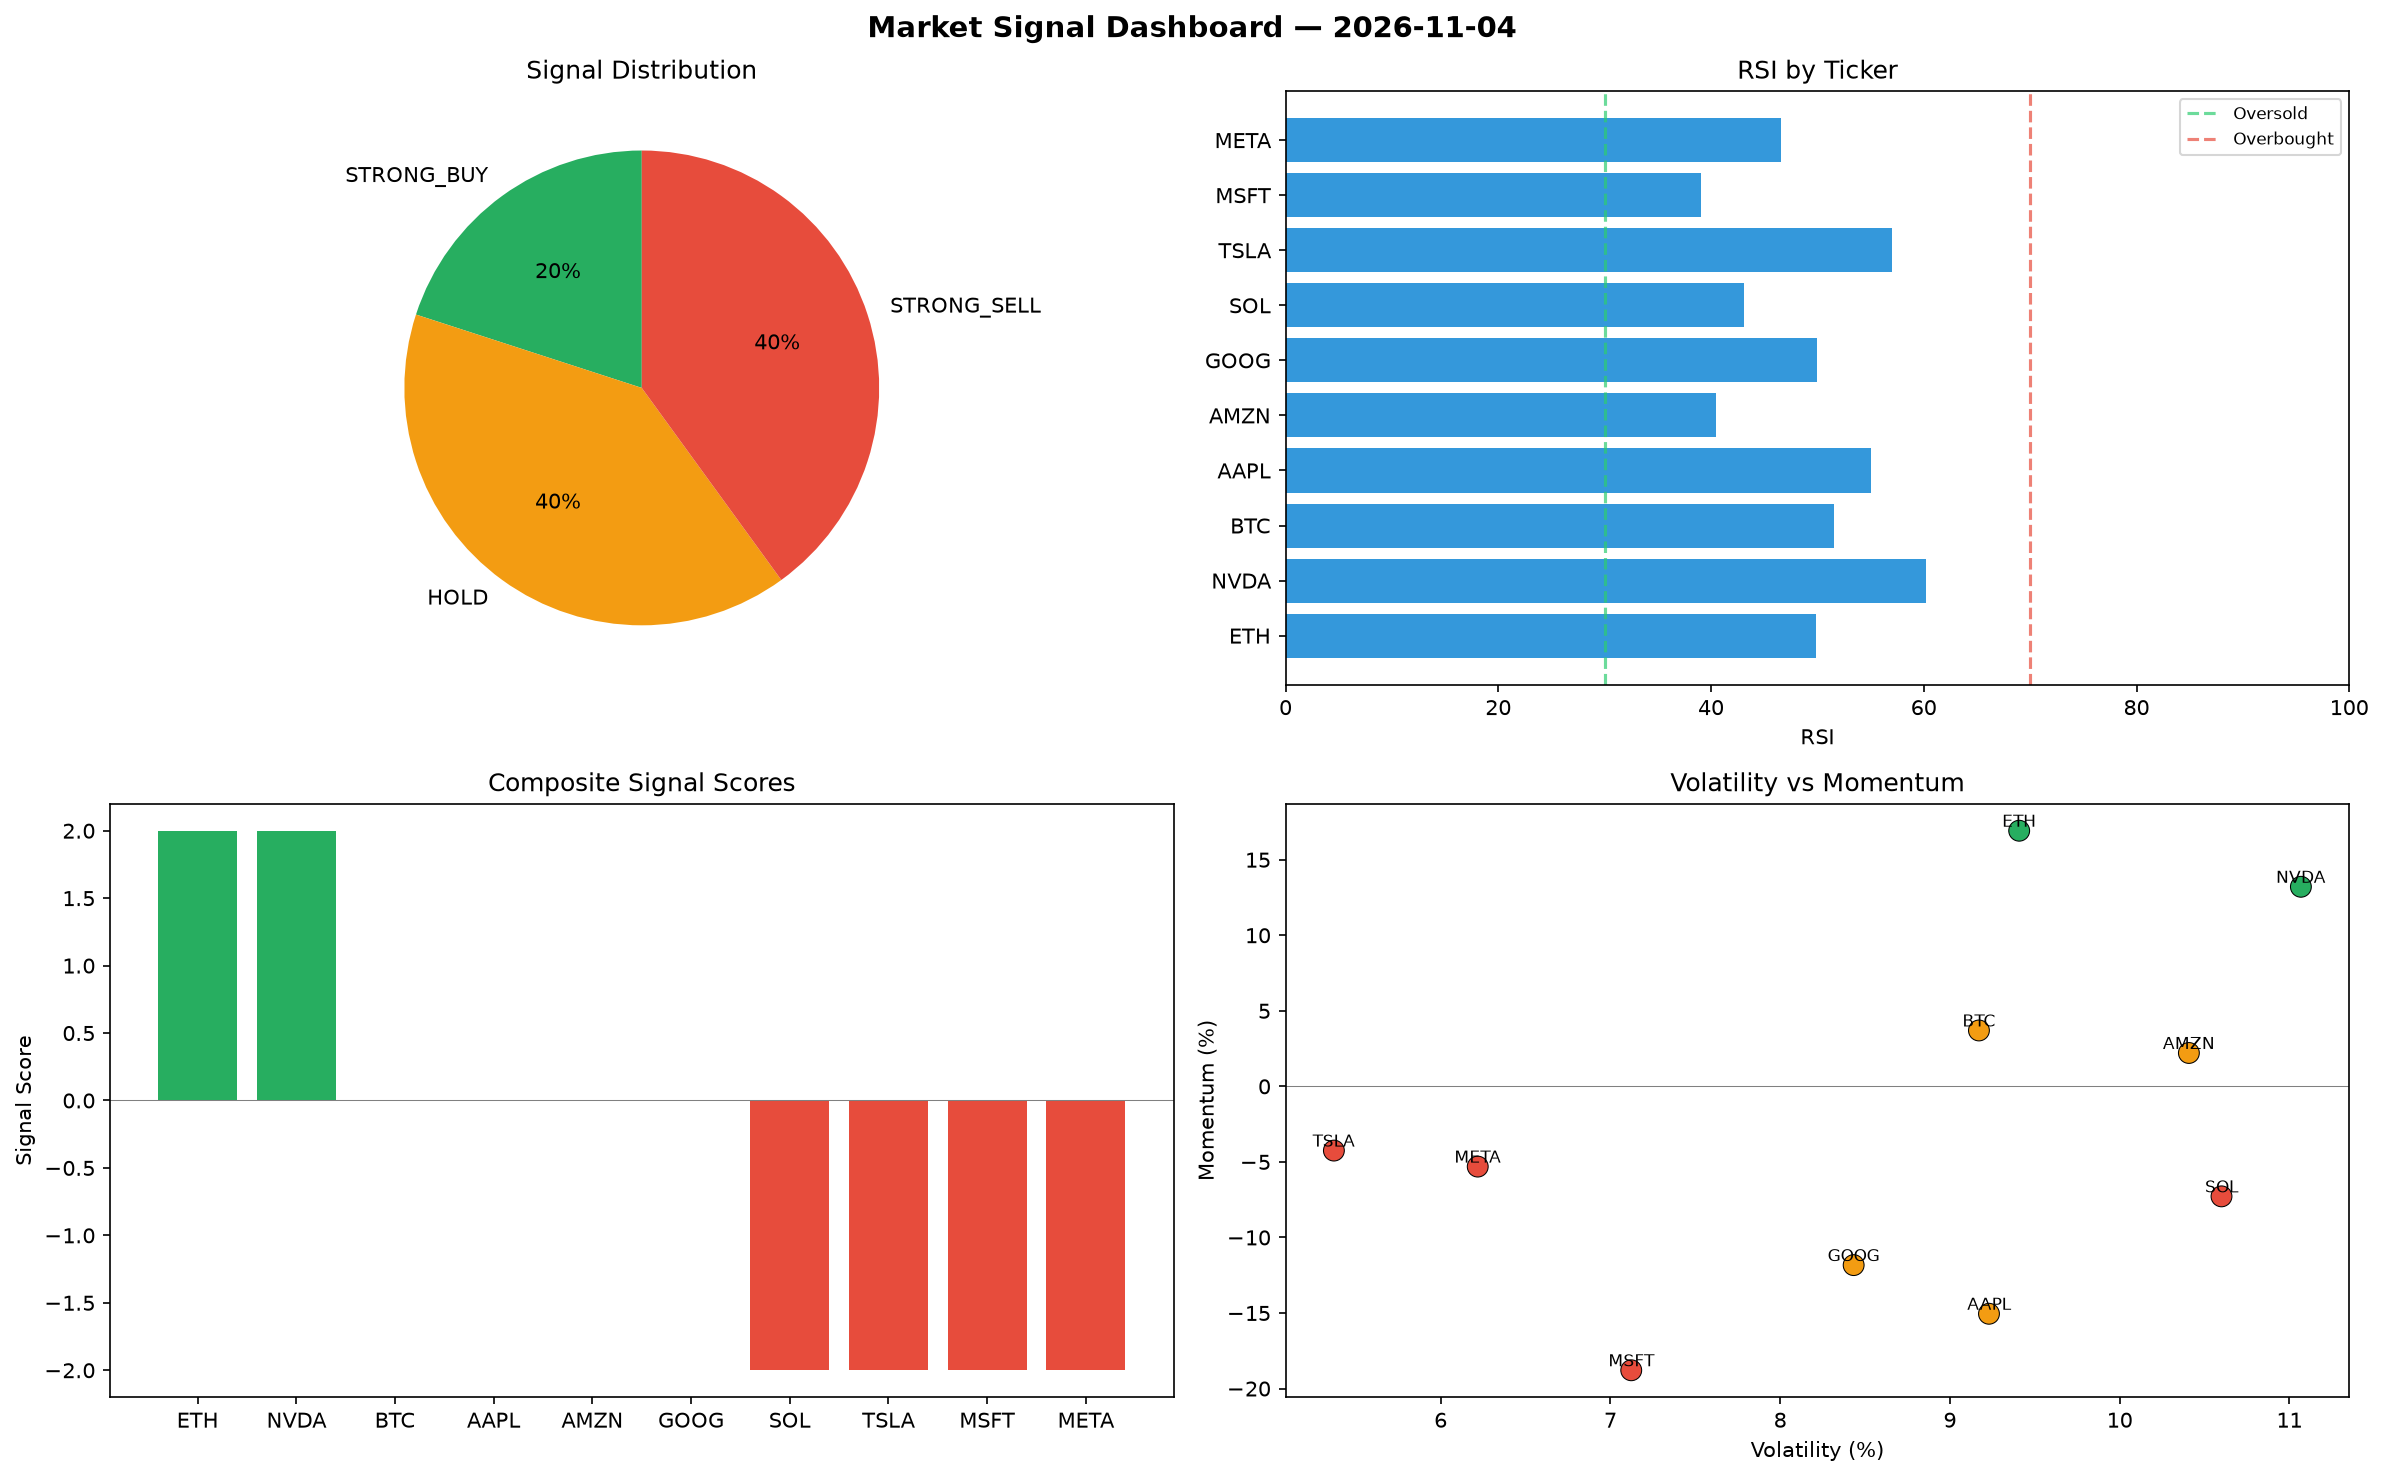
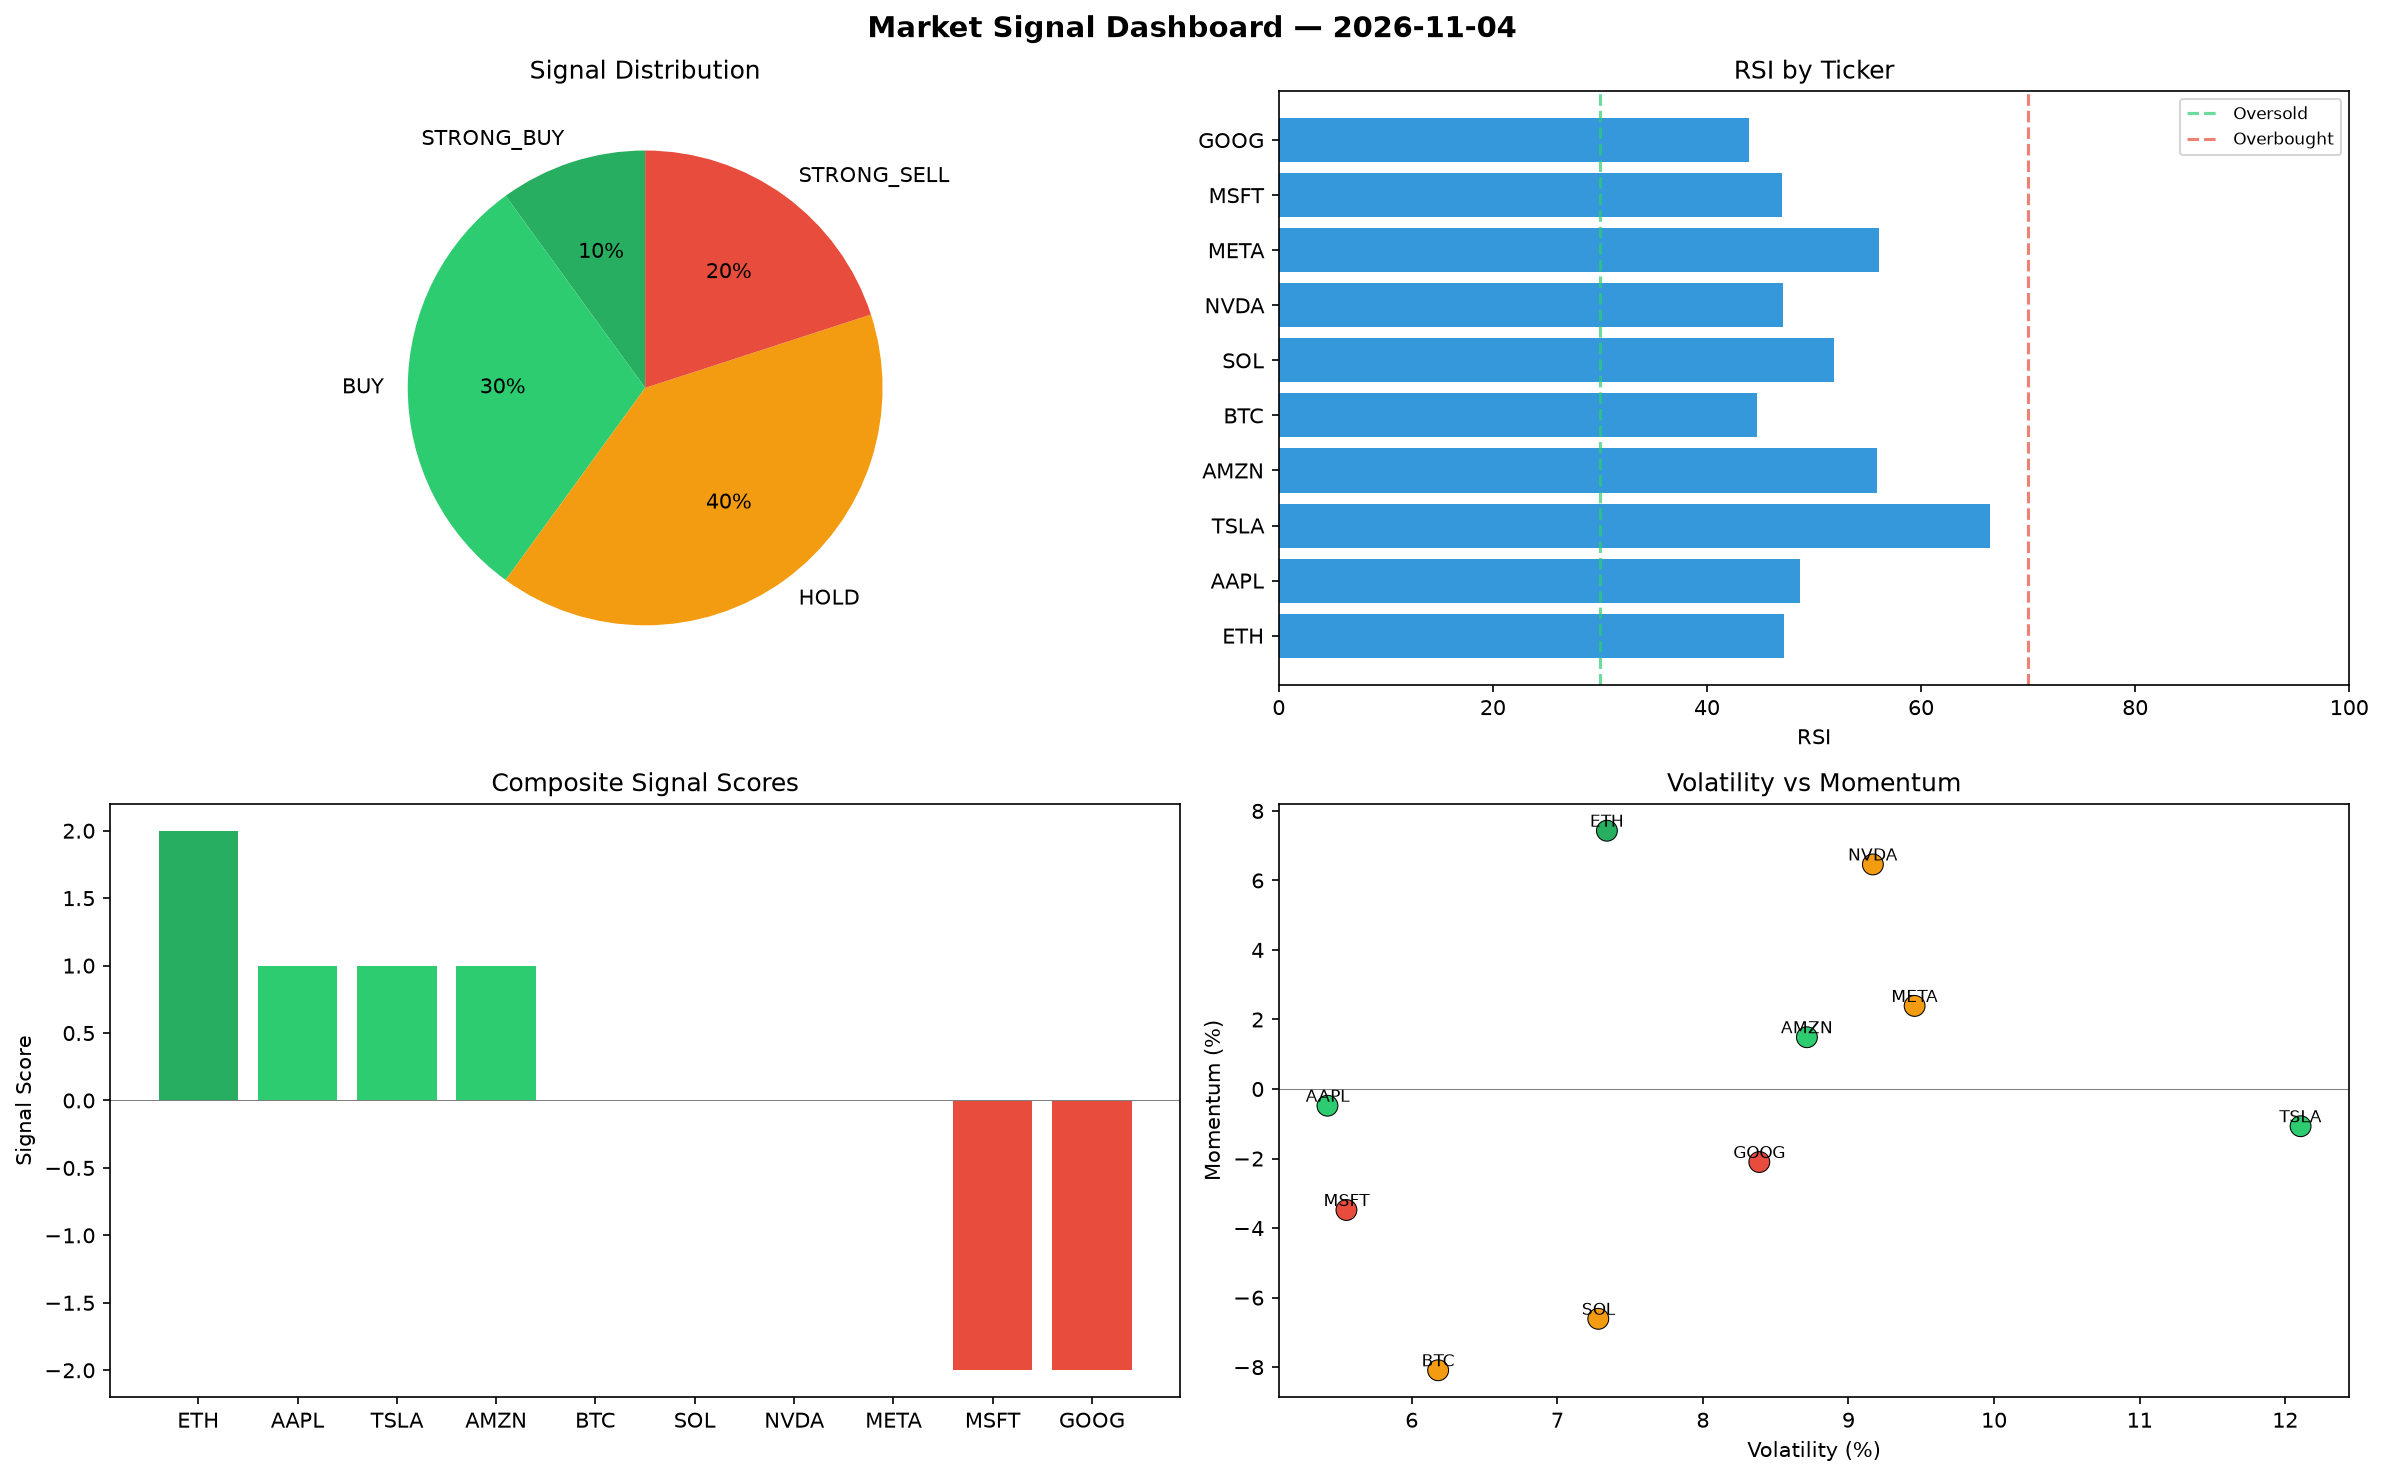
automated-bots: market signals 2026-11-04T16:27

diff --git a/logs/2026-11-04.md b/logs/2026-11-04.md
@@ -1,6 +1,6 @@
 # Market Signal Report — 2026-11-04
 
-**Run ID:** `0bbb071fc1` | **Buy:** 2 | **Sell:** 4 | **Hold:** 4
+**Run ID:** `55103642df` | **Buy:** 4 | **Sell:** 2 | **Hold:** 4
 
 ![Dashboard](2026-11-04_dashboard.png)
 
@@ -8,28 +8,28 @@
 
 | Ticker | Price | Signal | Score | RSI | Momentum | Confidence |
 |--------|-------|--------|-------|-----|----------|------------|
-| ETH | $4314.23 | **STRONG_BUY** | 2 | 49.91 | 0.1692 | 0.5 |
-| NVDA | $5399.22 | **STRONG_BUY** | 2 | 60.25 | 0.1321 | 0.5 |
-| BTC | $889.05 | **HOLD** | 0 | 51.52 | 0.037 | 0.0 |
-| AAPL | $507.26 | **HOLD** | 0 | 55.03 | -0.1505 | 0.0 |
-| AMZN | $1225.2 | **HOLD** | 0 | 40.47 | 0.0221 | 0.0 |
-| GOOG | $831.95 | **HOLD** | 0 | 49.99 | -0.1183 | 0.0 |
-| SOL | $1499.84 | **STRONG_SELL** | -2 | 43.1 | -0.0728 | 0.5 |
-| TSLA | $380.88 | **STRONG_SELL** | -2 | 56.98 | -0.0425 | 0.5 |
-| MSFT | $4016.99 | **STRONG_SELL** | -2 | 39.02 | -0.1879 | 0.5 |
-| META | $1251.02 | **STRONG_SELL** | -2 | 46.55 | -0.0531 | 0.5 |
+| ETH | $4157.96 | **STRONG_BUY** | 2 | 47.19 | 0.0743 | 0.5 |
+| AAPL | $2161.36 | **BUY** | 1 | 48.68 | -0.0048 | 0.25 |
+| TSLA | $4132.79 | **BUY** | 1 | 66.46 | -0.0107 | 0.25 |
+| AMZN | $2293.49 | **BUY** | 1 | 55.87 | 0.0149 | 0.25 |
+| BTC | $2798.15 | **HOLD** | 0 | 44.71 | -0.0809 | 0.0 |
+| SOL | $3409.74 | **HOLD** | 0 | 51.84 | -0.0661 | 0.0 |
+| NVDA | $610.77 | **HOLD** | 0 | 47.13 | 0.0646 | 0.0 |
+| META | $4193.2 | **HOLD** | 0 | 56.05 | 0.0239 | 0.0 |
+| MSFT | $597.24 | **STRONG_SELL** | -2 | 47.0 | -0.0348 | 0.5 |
+| GOOG | $2929.47 | **STRONG_SELL** | -2 | 43.89 | -0.021 | 0.5 |
 
 ## Delta vs Yesterday
 
 | Ticker | Today | Yesterday | Price Change | Signal Changed |
 |--------|-------|-----------|-------------|----------------|
-| ETH | STRONG_BUY | HOLD | 📈 201.05% | ⚠ YES |
-| NVDA | STRONG_BUY | BUY | 📈 30.68% | ⚠ YES |
-| BTC | HOLD | SELL | 📉 -73.82% | ⚠ YES |
-| AAPL | HOLD | BUY | 📉 -88.48% | ⚠ YES |
-| AMZN | HOLD | SELL | 📉 -60.35% | ⚠ YES |
-| GOOG | HOLD | HOLD | 📉 -13.97% | — |
-| SOL | STRONG_SELL | STRONG_BUY | 📉 -32.68% | ⚠ YES |
-| TSLA | STRONG_SELL | SELL | 📉 -88.39% | ⚠ YES |
-| MSFT | STRONG_SELL | SELL | 📈 1.23% | ⚠ YES |
-| META | STRONG_SELL | HOLD | 📉 -45.92% | ⚠ YES |
+| ETH | STRONG_BUY | HOLD | 📈 190.14% | ⚠ YES |
+| AAPL | BUY | BUY | 📉 -50.93% | — |
+| TSLA | BUY | SELL | 📈 26.01% | ⚠ YES |
+| AMZN | BUY | SELL | 📉 -25.78% | ⚠ YES |
+| BTC | HOLD | SELL | 📉 -17.59% | ⚠ YES |
+| SOL | HOLD | STRONG_BUY | 📈 53.05% | ⚠ YES |
+| NVDA | HOLD | BUY | 📉 -85.22% | ⚠ YES |
+| META | HOLD | HOLD | 📈 81.25% | — |
+| MSFT | STRONG_SELL | SELL | 📉 -84.95% | ⚠ YES |
+| GOOG | STRONG_SELL | HOLD | 📈 202.93% | ⚠ YES |
